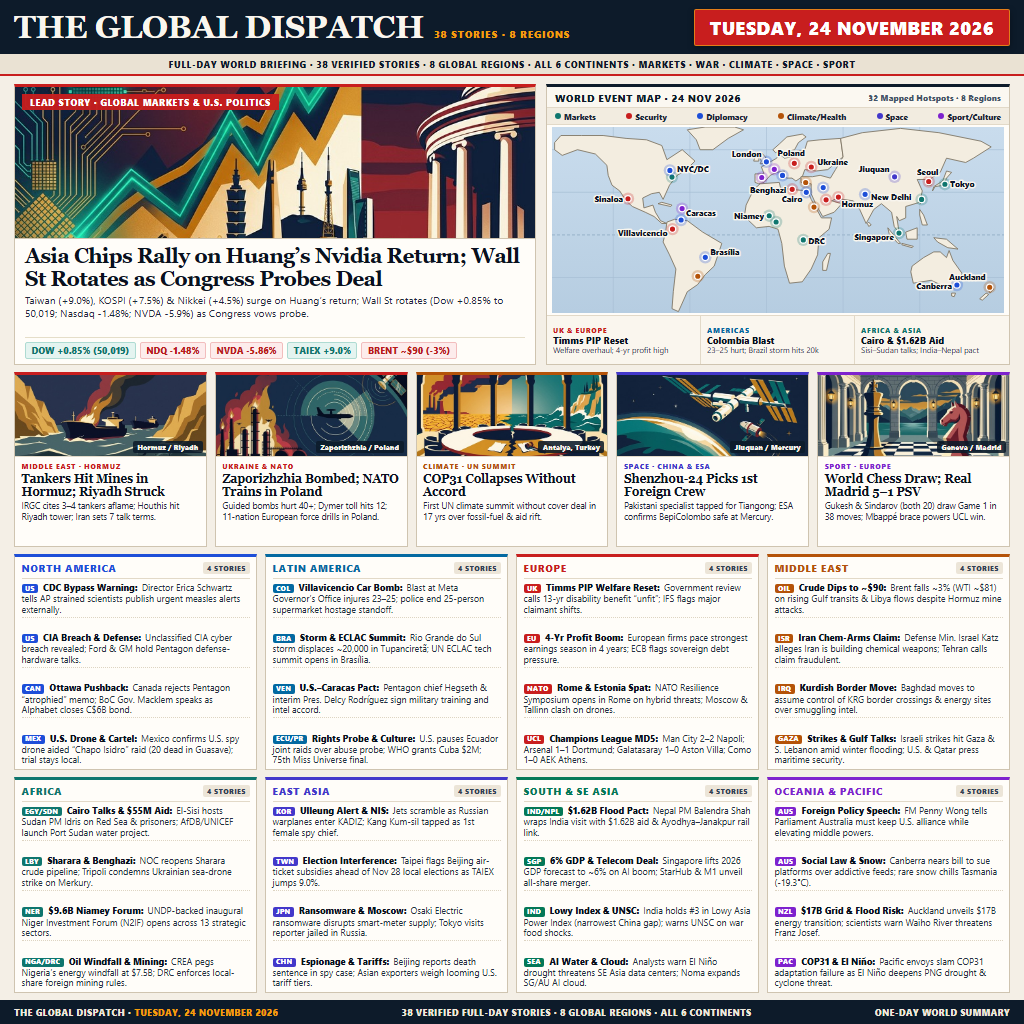
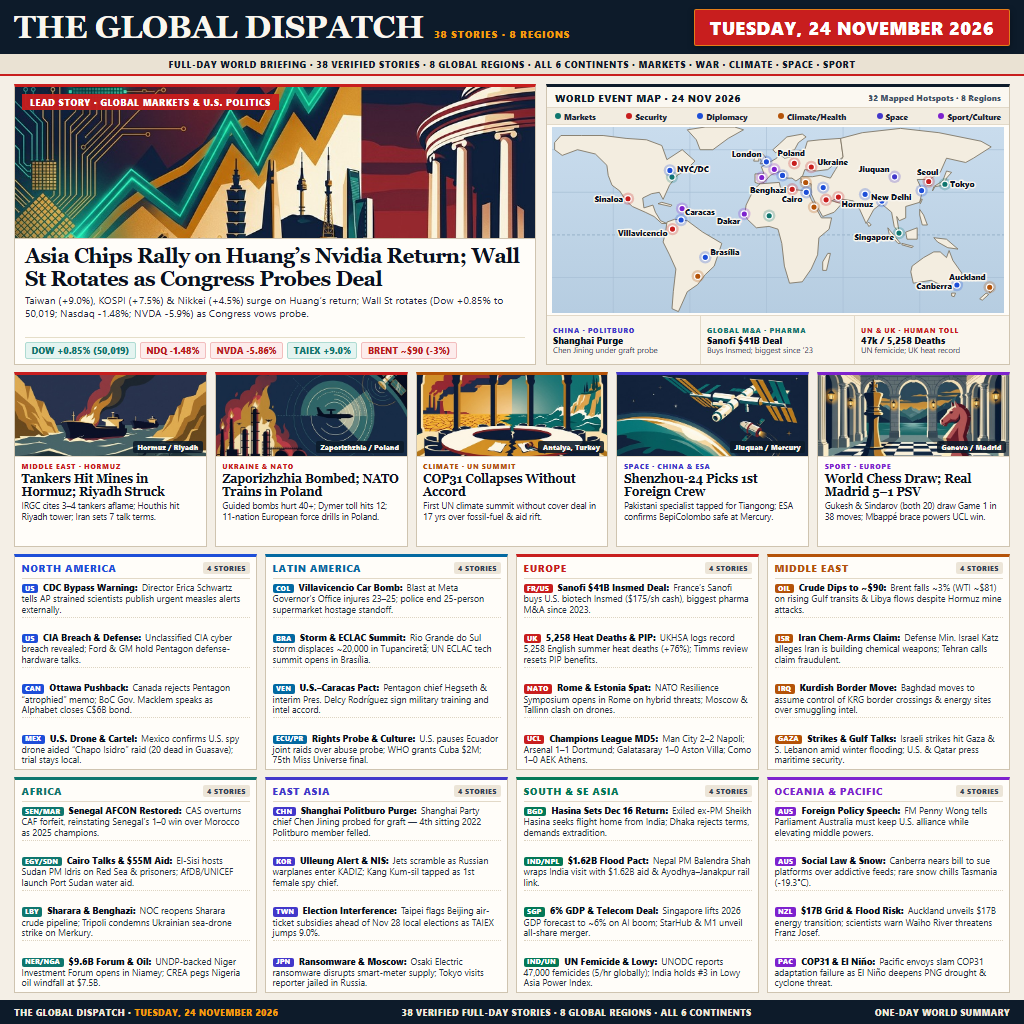
feat(v3): add Shanghai Politburo purge, Sanofi , UK 5258 heat deaths, Senegal AFCON, UN femicide, Hasina

diff --git a/src/news-data.ts b/src/news-data.ts
@@ -215,14 +215,14 @@ export const EDITION_2026_11_24: EditionData = {
       countLabel: '4 STORIES',
       briefs: [
         {
-          tag: 'UK',
-          lead: 'Timms PIP Welfare Reset:',
-          body: 'Government review calls 13-yr disability benefit “unfit”; IFS flags major claimant shifts.',
+          tag: 'FR/US',
+          lead: 'Sanofi $41B Insmed Deal:',
+          body: 'France’s Sanofi buys U.S. biotech Insmed ($175/sh cash), biggest pharma M&A since 2023.',
         },
         {
-          tag: 'EU',
-          lead: '4-Yr Profit Boom:',
-          body: 'European firms pace strongest earnings season in 4 years; ECB flags sovereign debt pressure.',
+          tag: 'UK',
+          lead: '5,258 Heat Deaths & PIP:',
+          body: 'UKHSA logs record 5,258 English summer heat deaths (+76%); Timms review resets PIP benefits.',
         },
         {
           tag: 'NATO',
@@ -271,9 +271,14 @@ export const EDITION_2026_11_24: EditionData = {
       countLabel: '4 STORIES',
       briefs: [
         {
+          tag: 'SEN/MAR',
+          lead: 'Senegal AFCON Restored:',
+          body: 'CAS overturns CAF forfeit, reinstating Senegal’s 1–0 win over Morocco as 2025 champions.',
+        },
+        {
           tag: 'EGY/SDN',
           lead: 'Cairo Talks & $55M Aid:',
-          body: 'El-Sisi hosts Sudan PM Idris on Red Sea & prisoners; AfDB/UNICEF launch Port Sudan water project.',
+          body: 'El-Sisi hosts Sudan PM Idris on Red Sea & prisoners; AfDB/UNICEF launch Port Sudan water aid.',
         },
         {
           tag: 'LBY',
@@ -281,14 +286,9 @@ export const EDITION_2026_11_24: EditionData = {
           body: 'NOC reopens Sharara crude pipeline; Tripoli condemns Ukrainian sea-drone strike on Merkury.',
         },
         {
-          tag: 'NER',
-          lead: '$9.6B Niamey Forum:',
-          body: 'UNDP-backed inaugural Niger Investment Forum (N2IF) opens across 13 strategic sectors.',
-        },
-        {
-          tag: 'NGA/DRC',
-          lead: 'Oil Windfall & Mining:',
-          body: 'CREA pegs Nigeria’s energy windfall at $7.5B; DRC enforces local-share foreign mining rules.',
+          tag: 'NER/NGA',
+          lead: '$9.6B Forum & Oil:',
+          body: 'UNDP-backed Niger Investment Forum opens in Niamey; CREA pegs Nigeria oil windfall at $7.5B.',
         },
       ],
     },
@@ -298,6 +298,11 @@ export const EDITION_2026_11_24: EditionData = {
       accent: '#4338CA',
       countLabel: '4 STORIES',
       briefs: [
+        {
+          tag: 'CHN',
+          lead: 'Shanghai Politburo Purge:',
+          body: 'Shanghai Party chief Chen Jining probed for graft — 4th sitting 2022 Politburo member felled.',
+        },
         {
           tag: 'KOR',
           lead: 'Ulleung Alert & NIS:',
@@ -313,11 +318,6 @@ export const EDITION_2026_11_24: EditionData = {
           lead: 'Ransomware & Moscow:',
           body: 'Osaki Electric ransomware disrupts smart-meter supply; Tokyo visits reporter jailed in Russia.',
         },
-        {
-          tag: 'CHN',
-          lead: 'Espionage & Tariffs:',
-          body: 'Beijing reports death sentence in spy case; Asian exporters weigh looming U.S. tariff tiers.',
-        },
       ],
     },
     {
@@ -326,6 +326,11 @@ export const EDITION_2026_11_24: EditionData = {
       accent: '#047857',
       countLabel: '4 STORIES',
       briefs: [
+        {
+          tag: 'BGD',
+          lead: 'Hasina Sets Dec 16 Return:',
+          body: 'Exiled ex-PM Sheikh Hasina seeks flight home from India; Dhaka rejects terms, demands extradition.',
+        },
         {
           tag: 'IND/NPL',
           lead: '$1.62B Flood Pact:',
@@ -337,14 +342,9 @@ export const EDITION_2026_11_24: EditionData = {
           body: 'Singapore lifts 2026 GDP forecast to ~6% on AI boom; StarHub & M1 unveil all-share merger.',
         },
         {
-          tag: 'IND',
-          lead: 'Lowy Index & UNSC:',
-          body: 'India holds #3 in Lowy Asia Power Index (narrowest China gap); warns UNSC on war food shocks.',
-        },
-        {
-          tag: 'SEA',
-          lead: 'AI Water & Cloud:',
-          body: 'Analysts warn El Niño drought threatens SE Asia data centers; Noma expands SG/AU AI cloud.',
+          tag: 'IND/UN',
+          lead: 'UN Femicide & Lowy:',
+          body: 'UNODC reports 47,000 femicides (5/hr globally); India holds #3 in Lowy Asia Power Index.',
         },
       ],
     },
@@ -382,7 +382,7 @@ export const EDITION_2026_11_24: EditionData = {
     { id: 2, lon: -75.7, lat: 45.4, label: 'Ottawa', category: 'diplomacy', labelDx: -5, labelDy: -6, anchor: 'end', showLabel: false },
     { id: 3, lon: -108.5, lat: 25.5, label: 'Sinaloa', category: 'security', labelDx: -5, labelDy: 3, anchor: 'end', showLabel: true },
     { id: 4, lon: -66.1, lat: 18.5, label: 'San Juan', category: 'culture', labelDx: 5, labelDy: 2, anchor: 'start', showLabel: false },
-    { id: 5, lon: -66.9, lat: 10.5, label: 'Caracas', category: 'diplomacy', labelDx: 5, labelDy: -4, anchor: 'start', showLabel: true },
+    { id: 5, lon: -66.9, lat: 10.5, label: 'Caracas', category: 'diplomacy', labelDx: 4, labelDy: -5, anchor: 'start', showLabel: true },
     { id: 6, lon: -73.6, lat: 4.1, label: 'Villavicencio', category: 'security', labelDx: -5, labelDy: 7, anchor: 'end', showLabel: true },
     { id: 7, lon: -47.9, lat: -15.8, label: 'Brasília', category: 'diplomacy', labelDx: 5, labelDy: -2, anchor: 'start', showLabel: true },
     { id: 8, lon: -53.8, lat: -29.1, label: 'S. Brazil', category: 'climate', labelDx: 5, labelDy: 6, anchor: 'start', showLabel: false },
@@ -398,15 +398,15 @@ export const EDITION_2026_11_24: EditionData = {
     { id: 18, lon: 46.7, lat: 24.7, label: 'Riyadh', category: 'security', labelDx: -4, labelDy: 8, anchor: 'end', showLabel: false },
     { id: 19, lon: 56.3, lat: 26.6, label: 'Hormuz', category: 'security', labelDx: 3, labelDy: 10, anchor: 'start', showLabel: true },
     { id: 20, lon: 44.4, lat: 33.3, label: 'Baghdad', category: 'diplomacy', labelDx: 5, labelDy: -2, anchor: 'start', showLabel: false },
-    { id: 21, lon: 2.1, lat: 13.5, label: 'Niamey', category: 'markets', labelDx: -5, labelDy: 3, anchor: 'end', showLabel: true },
+    { id: 21, lon: -17.4, lat: 14.7, label: 'Dakar', category: 'culture', labelDx: -4, labelDy: 10, anchor: 'end', showLabel: true },
     { id: 22, lon: 37.2, lat: 19.6, label: 'Port Sudan', category: 'climate', labelDx: 5, labelDy: 6, anchor: 'start', showLabel: false },
-    { id: 23, lon: 7.5, lat: 9.1, label: 'Abuja', category: 'markets', labelDx: -5, labelDy: 6, anchor: 'end', showLabel: false },
-    { id: 24, lon: 28.8, lat: -3.5, label: 'DRC', category: 'markets', labelDx: 5, labelDy: 4, anchor: 'start', showLabel: true },
+    { id: 23, lon: 2.1, lat: 13.5, label: 'Niamey', category: 'markets', labelDx: -5, labelDy: 7, anchor: 'end', showLabel: false },
+    { id: 24, lon: 90.4, lat: 23.8, label: 'Dhaka', category: 'diplomacy', labelDx: 5, labelDy: 6, anchor: 'start', showLabel: false },
     { id: 25, lon: 77.2, lat: 28.6, label: 'New Delhi', category: 'diplomacy', labelDx: 6, labelDy: 6, anchor: 'start', showLabel: true },
     { id: 26, lon: 100.3, lat: 40.9, label: 'Jiuquan', category: 'space', labelDx: -5, labelDy: -5, anchor: 'end', showLabel: true },
-    { id: 27, lon: 127.0, lat: 37.6, label: 'Seoul', category: 'security', labelDx: -1, labelDy: -7, anchor: 'middle', showLabel: true },
+    { id: 27, lon: 121.5, lat: 31.2, label: 'Shanghai', category: 'diplomacy', labelDx: -5, labelDy: 6, anchor: 'end', showLabel: false },
     { id: 28, lon: 139.7, lat: 35.7, label: 'Tokyo', category: 'markets', labelDx: 5, labelDy: 3, anchor: 'start', showLabel: true },
-    { id: 29, lon: 121.5, lat: 25.0, label: 'Taipei', category: 'markets', labelDx: 5, labelDy: 5, anchor: 'start', showLabel: false },
+    { id: 29, lon: 127.0, lat: 37.6, label: 'Seoul', category: 'security', labelDx: -1, labelDy: -7, anchor: 'middle', showLabel: true },
     { id: 30, lon: 103.8, lat: 1.3, label: 'Singapore', category: 'markets', labelDx: -5, labelDy: 7, anchor: 'end', showLabel: true },
     { id: 31, lon: 149.1, lat: -35.3, label: 'Canberra', category: 'diplomacy', labelDx: -5, labelDy: 4, anchor: 'end', showLabel: true },
     { id: 32, lon: 174.8, lat: -36.8, label: 'Auckland', category: 'climate', labelDx: -4, labelDy: -7, anchor: 'end', showLabel: true },

diff --git a/src/template.ts b/src/template.ts
@@ -580,19 +580,19 @@ export function renderEditionHtml(edition: EditionData, assetsDir: string): stri
         <div class="map-canvas">${worldMapSvg}</div>
         <div class="map-kpis">
           <div class="kpi-cell">
-            <span class="kpi-kicker" style="color:#C81E1E">UK &amp; Europe</span>
-            <span class="kpi-val">Timms PIP Reset</span>
-            <span class="kpi-sub">Welfare overhaul; 4-yr profit high</span>
+            <span class="kpi-kicker" style="color:#4338CA">China · Politburo</span>
+            <span class="kpi-val">Shanghai Purge</span>
+            <span class="kpi-sub">Chen Jining under graft probe</span>
           </div>
           <div class="kpi-cell">
-            <span class="kpi-kicker" style="color:#0369A1">Americas</span>
-            <span class="kpi-val">Colombia Blast</span>
-            <span class="kpi-sub">23–25 hurt; Brazil storm hits 20k</span>
+            <span class="kpi-kicker" style="color:#0F766E">Global M&amp;A · Pharma</span>
+            <span class="kpi-val">Sanofi $41B Deal</span>
+            <span class="kpi-sub">Buys Insmed; biggest since ’23</span>
           </div>
           <div class="kpi-cell">
-            <span class="kpi-kicker" style="color:#0F766E">Africa &amp; Asia</span>
-            <span class="kpi-val">Cairo &amp; $1.62B Aid</span>
-            <span class="kpi-sub">Sisi–Sudan talks; India–Nepal pact</span>
+            <span class="kpi-kicker" style="color:#C81E1E">UN &amp; UK · Human Toll</span>
+            <span class="kpi-val">47k / 5,258 Deaths</span>
+            <span class="kpi-sub">UN femicide; UK heat record</span>
           </div>
         </div>
       </aside>
